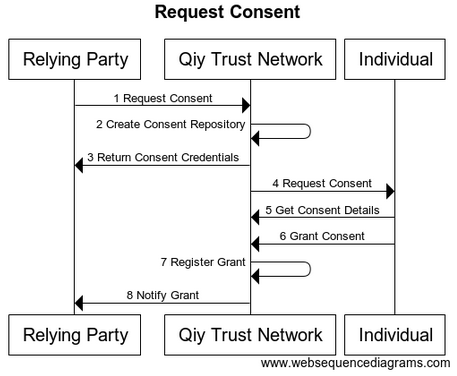
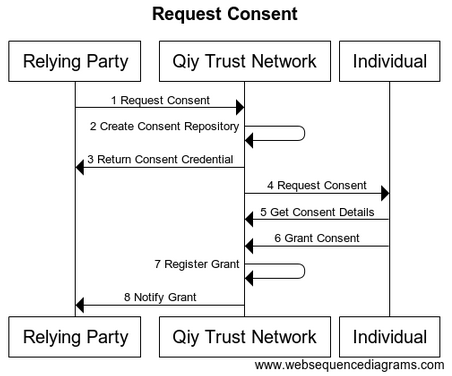
Fixed Consent Credential links

Changed region(s): [[0.0, 0.0878, 0.9912, 0.9947], [0.3097, 0.0, 0.6814, 0.0585]]

diff --git a/use-cases/UC05 Request Consent.md b/use-cases/UC05 Request Consent.md
@@ -47,19 +47,19 @@ The [Relying Party](../Qiy%20Node%20Protocol.md#relying-party) requests [Consent
 
 ## 2. The Qiy Trust Network creates a Consent Repository
 
-The [Qiy Trust Network](../Definitions.md#qiy-trust-network) creates a [Consent Repository](../Qiy%20Node%20Protocol.md#consent-repository) and [Consent Credentials](../Qiy%20Node%20Protocol.md#consent-credentials) for the [Relying Party](../Qiy%20Node%20Protocol.md#relying-party), the [Individual](../Definitions.md#individual) and a [Data Provider](../Qiy%20Node%20Protocol.md#data-provider).
+The [Qiy Trust Network](../Definitions.md#qiy-trust-network) creates a [Consent Repository](../Qiy%20Node%20Protocol.md#consent-repository) and [Consent Credentials](../Qiy%20Node%20Protocol.md#consent-credential) for the [Relying Party](../Qiy%20Node%20Protocol.md#relying-party), the [Individual](../Definitions.md#individual) and a [Data Provider](../Qiy%20Node%20Protocol.md#data-provider).
 
 ## 3. The Qiy Trust Network returns the Consent Relying Party Credentials to the Relying Party
 
-The [Qiy Trust Network](../Definitions.md#qiy-trust-network) returns the [Consent Relying Party Credentials](../Qiy%20Node%20Protocol.md#consent-relying-party-credentials) to the [Relying Party](../Qiy%20Node%20Protocol.md#relying-party).
+The [Qiy Trust Network](../Definitions.md#qiy-trust-network) returns the [Consent Relying Party Credential](../Qiy%20Node%20Protocol.md#consent-relying-party-credential) to the [Relying Party](../Qiy%20Node%20Protocol.md#relying-party).
 
 ## 4. The Qiy Trust Network sends a Consent Request Message to the Individual
 
-The [Qiy Trust Network](../Definitions.md#qiy-trust-network) forwards the [Consent Request Message](../Qiy%20Node%20Protocol.md#consent-request-message) with the [Consent Individual Credentials](../Qiy%20Node%20Protocol.md#consent-individual-credentials) to the [Individual](../Definitions.md#individual).
+The [Qiy Trust Network](../Definitions.md#qiy-trust-network) forwards the [Consent Request Message](../Qiy%20Node%20Protocol.md#consent-request-message) with the [Consent Individual Credential](../Qiy%20Node%20Protocol.md#consent-individual-credential) to the [Individual](../Definitions.md#individual).
 
 ## 5. The Individual gets the Consent details from the Qiy Trust Network
 
-The [Individual](../Definitions.md#individual) uses the [Consent Individual Credentials](../Qiy%20Node%20Protocol.md#consent-individual-credentials) in a [Consent Details Request](../Qiy%20Node%20Protocol.md#consent-details-request) to get the details of the requested Consent from the [Qiy Trust Network](../Definitions.md#qiy-trust-network).
+The [Individual](../Definitions.md#individual) uses the [Consent Individual Credential](../Qiy%20Node%20Protocol.md#consent-individual-credential) in a [Consent Details Request](../Qiy%20Node%20Protocol.md#consent-details-request) to get the details of the requested Consent from the [Qiy Trust Network](../Definitions.md#qiy-trust-network).
 
 ## 6. The Individual grants Consent
 
@@ -94,7 +94,7 @@ participant "Individual"        as User
 
 RP   ->  QTF  : 1 Request Consent
 QTF  ->  QTF  : 2 Create Consent Repository
-QTF  ->  RP   : 3 Return Consent Credentials
+QTF  ->  RP   : 3 Return Consent Credential
 QTF  ->  User : 4 Request Consent
 User ->  QTF  : 5 Get Consent Details
 User ->  QTF  : 6 Grant Consent
